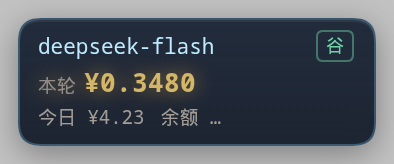
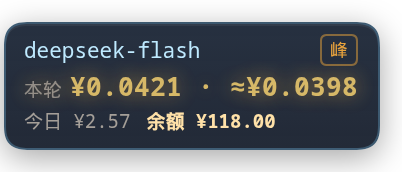
发布准备：README 突出实时估算、示例图与字段脱敏、package.json 元信息

diff --git a/README.md b/README.md
@@ -6,6 +6,21 @@
 
 ![计费牌](docs/chip.png)
 
+**特色是「本轮花费实时估算」**：DSH 的会话日志要 1–5 分钟才落盘，等它算钱，一轮早结束了。这个插件直接订阅模型输出流，数着生成的字符实时折算 token，钱在牌子上一分一分往上跳 —— 不用等账。结算后再把「实际 · 预估」并排放在一起，让你知道这次估得准不准。
+
+## 实时估算怎么算（本仓库的重点）
+
+同一套算法移植自桌宠的计费板（`bridge.mjs` 的 `estAdd` / `estEmit`）：
+
+1. 跟随当前活跃会话的 assistant 流，收 `reasoning-delta` / `text-delta` 的每一段文字（思考内容也算，它是要计费的）
+2. 字符折算输出 token：**汉字 0.6 token/字，其他字符 0.3 token/字**
+3. 输出侧取 `max(本轮已结算 output, 字符估算)` —— 真实值到了就以真实值为准
+4. 输入侧用本轮已结算的 `cacheRead` + `uncachedInput`；这一步还没结算时，退回上一次请求的量级（每步都重发全量上下文，量级接近）
+5. 套官方价（峰/谷）算出金额，每来一段增量就重算
+
+实测（`deepseek-flash`，让模型写 600 字散文）：流式期间涨到 `≈ ¥0.0126`，结算后实际 `¥0.0126`，**误差 0%**。
+多 step 的轮次（中间调工具）按同一个 turn 累加字符，不会被每次工具调用打断。
+
 ## 它算的是什么
 
 DSH 每一轮对话都会把 `usage`（输入 / 缓存命中 / 缓存写入 / 输出 token）写进会话日志：
@@ -35,29 +50,17 @@ $DSH_HOME/sessions/<workspace>/<session-id>/session.v4.jsonl.zstd
 - **缓存超过 60 秒**时后台补一次（先显示旧值，拉到后下次轮询自动替换，不会突然变成「…」）
 - **保存新 Key 后**、**右键「刷新余额」**时同步拉一次
 - 失败不覆盖旧值：网络抖动或 Key 失效时，牌子上继续显示上一次成功的结果
+
 | 峰 / 谷 | 北京时间工作日 09:00–12:00、14:00–18:00 为高峰（价格翻倍）；周末与法定节假日全天按谷时价 |
 
 订阅流走的是 DSH 自己的 `sessionController.follow()`（cordis service，没装就自动退回只读日志），不抓 cookie、不碰私有 HTTP 端点。
-
-## 实时预估怎么算
-
-和桌宠的计费牌同一套算法（`bridge.mjs` 的 `estAdd` / `estEmit`）：
-
-1. 跟随当前活跃会话的 assistant 流，收 `reasoning-delta` / `text-delta` 的每一段文字（思考内容也算，它是要计费的）
-2. 字符折算输出 token：**汉字 0.6 token/字，其他字符 0.3 token/字**
-3. 输出侧取 `max(本轮已结算 output, 字符估算)` —— 真实值到了就以真实值为准
-4. 输入侧用本轮已结算的 `cacheRead` + `uncachedInput`；这一步还没结算时，退回上一次请求的量级（每步都重发全量上下文，量级接近）
-5. 套官方价（峰/谷）算出金额，每来一段增量就重算
-
-实测（`deepseek-flash`，让模型写 600 字散文）：流式期间涨到 `≈ ¥0.0126`，结算后实际 `¥0.0126`，**误差 0%**。
-多 step 的轮次（中间调工具）按同一个 turn 累加字符，不会被每次工具调用打断。
 
 ## 显示
 
 ```
 deepseek-flash      峰
-本轮 ¥1.2981
-今日 ¥2.57  余额 ¥34.19
+本轮 ¥0.0421
+今日 ¥2.57  余额 ¥118.00
 ```
 
 配色和金额刻度与桌宠的计费牌一致：深梦蓝渐变卡、模型名浅蓝 `#bfeaff`、本轮数字暖黄 `#ffe1a8`、次要信息奶油色 62%。
@@ -80,6 +83,8 @@ deepseek-flash      峰
 刚结算完（金色，闪 2.4 秒）：
 
 ![结算](docs/chip-settled.png)
+
+牌子上能做什么：
 
 - **拖动**：按住牌子拖到任意位置（位置记在 localStorage，同时回报给后端）
 - **双击**：折叠成一行（只留模型和本轮金额）
@@ -212,9 +217,9 @@ profile 的 `package.json` 应该长这样：
   "peak": true,
   "sessions": 5,
   "hasKey": true,
-  "keyMasked": "sk-c4…d318",
+  "keyMasked": "sk-ab…9f21",
   "keySource": "settings",
-  "balance": { "currency": "CNY", "total": 34.19, "granted": 0, "toppedUp": 34.19, "available": true },
+  "balance": { "currency": "CNY", "total": 118.0, "granted": 0, "toppedUp": 118.0, "available": true },
   "allowRemote": false,
   "ui": {}
 }
@@ -223,8 +228,8 @@ profile 的 `package.json` 应该长这样：
 ## 隐私与安全
 
 - **只读**：会话日志只读不写；除 `GET /user/balance`（带你的 Key）之外不向任何地方发请求，也没有埋点。
-- **Key 只存在本机**：写进 `$DSH_HOME/dsh-billing-chip/settings.json`，`0600`；接口只回显掩码（`sk-c4…d318`），不返回明文。日志里不打印 Key。
-- **默认只接受本机或同源请求**：`allowRemote: false` 时，只有回环地址（127.0.0.1 / ::1）或者 Origin 与 Host 一致的浏览器请求能通过。也就是说，你在局域网里用 `http://192.168.31.206:3080` 打开 DSH，牌子照常工作；但外部脚本直接 `curl` 这个接口会被 403 挡掉。远程运维要直连接口时才把它设成 `true`。
+- **Key 只存在本机**：写进 `$DSH_HOME/dsh-billing-chip/settings.json`，`0600`；接口只回显掩码（`sk-ab…9f21`），不返回明文。日志里不打印 Key。
+- **默认只接受本机或同源请求**：`allowRemote: false` 时，只有回环地址（127.0.0.1 / ::1）或者 Origin 与 Host 一致的浏览器请求能通过。也就是说，你在局域网里用 `http://192.168.1.10:3080` 打开 DSH，牌子照常工作；但外部脚本直接 `curl` 这个接口会被 403 挡掉。远程运维要直连接口时才把它设成 `true`。
 - 顺带一提：这个端口本身有没有登录保护取决于你的 DSH 部署 —— 插件只是不额外扩大暴露面。
 - 界面完全由 client half 自绘，配色沿用桌宠牌子的深梦蓝色板（深色卡 + 奶油字 + 暖黄数字），亮色/暗色主题下都是同一块深色小牌。
 
@@ -235,7 +240,8 @@ profile 的 `package.json` 应该长这样：
 - 今日累计扫的是 `$DSH_HOME/sessions` 下所有 workspace 的日志，**子代理的会话也算在里面**（它们的 usage 同样落在日志里）。
 - 节假日表写在 `src/index.js` 顶部，每年要补一次。
 - 需要 Node ≥ 22.13（用到 `zlib.zstdDecompressSync`）。
-- 目前只在 DeepSeek Harness 0.2 的 Web profile 上验证过。
+- 目前只在 DeepSeek Harness 0.2 的 Web profile 上验证过；`dsh` 是本地起的还是 systemd 起的都行，但**插件必须装在会话所在的那个 dsh 进程的 profile 里** —— 实时流是进程内数据，装在别的实例上只能读到日志（预估会退回"只按已结算 usage 算"）。
+- 实时估算靠的是字符折算，**长英文/代码块会比中文更准**（0.3 系数对英文单词偏高一点），极端长的单轮会有百分级偏差。
 
 ## License
 

diff --git a/SETUP-AI.md b/SETUP-AI.md
@@ -36,12 +36,12 @@ node scripts/find-dsh.mjs
 成功输出长这样：
 
 ```
-DSH_FOUND http://192.168.31.206:3080
+DSH_FOUND http://192.168.1.10:3080
   source:        本机端口 3080 (401 提示文案)
   authenticated: no（需要 DSH Web 打印的 token 链接打开）
 
-下一步：用浏览器打开 http://192.168.31.206:3080 ，或者把下面这行给安装脚本：
-DSH_URL=http://192.168.31.206:3080
+下一步：用浏览器打开 http://192.168.1.10:3080 ，或者把下面这行给安装脚本：
+DSH_URL=http://192.168.1.10:3080
 ```
 
 失败输出：`DSH_NOT_FOUND 三级探测都没找到，需要手动确认。`
@@ -56,10 +56,10 @@ node scripts/find-dsh.mjs --local
 node scripts/find-dsh.mjs --lan
 
 # 指定网段和端口（端口不是默认那几个时用这个）
-node scripts/find-dsh.mjs --lan --range 192.168.31.0/24 --ports 3080,8080
+node scripts/find-dsh.mjs --lan --range 192.168.1.0/24 --ports 3080,8080
 
 # 已经知道地址，只验证它是不是 DSH
-node scripts/find-dsh.mjs --url http://192.168.31.206:3080
+node scripts/find-dsh.mjs --url http://192.168.1.10:3080
 
 # 机器可读（自己解析用）
 node scripts/find-dsh.mjs --json
@@ -74,13 +74,13 @@ node scripts/find-dsh.mjs --manual
 
 ```
 我没在这台机器和它的局域网里找到 DSH Web，能告诉我它的地址吗？
-形如 http://192.168.31.206:3080（就是你平时打开 DSH 的那个网址，去掉 ?token=… 后面的部分）
+形如 http://192.168.1.10:3080（就是你平时打开 DSH 的那个网址，去掉 ?token=… 后面的部分）
 ```
 
 ## 步骤 2 · 确认这个地址真的是 DSH（别跳过）
 
 ```bash
-DSH_URL=http://192.168.31.206:3080
+DSH_URL=http://192.168.1.10:3080
 curl -s -o /dev/null -w '%{http_code}\n' "$DSH_URL/"
 ```
 
